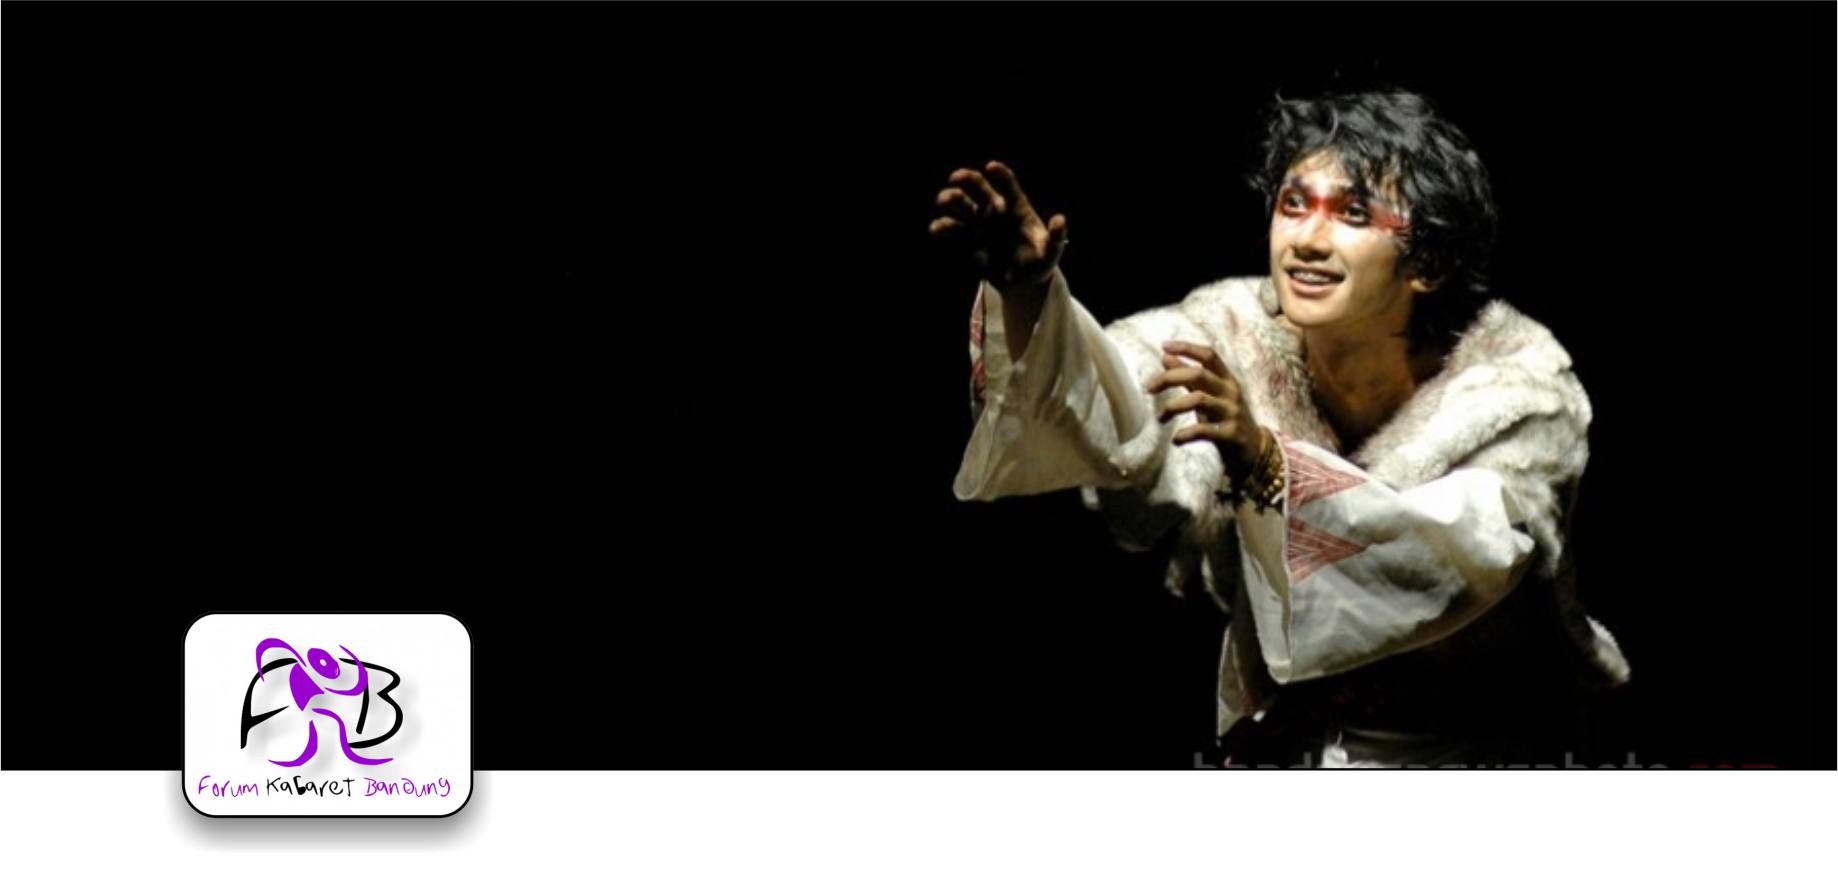
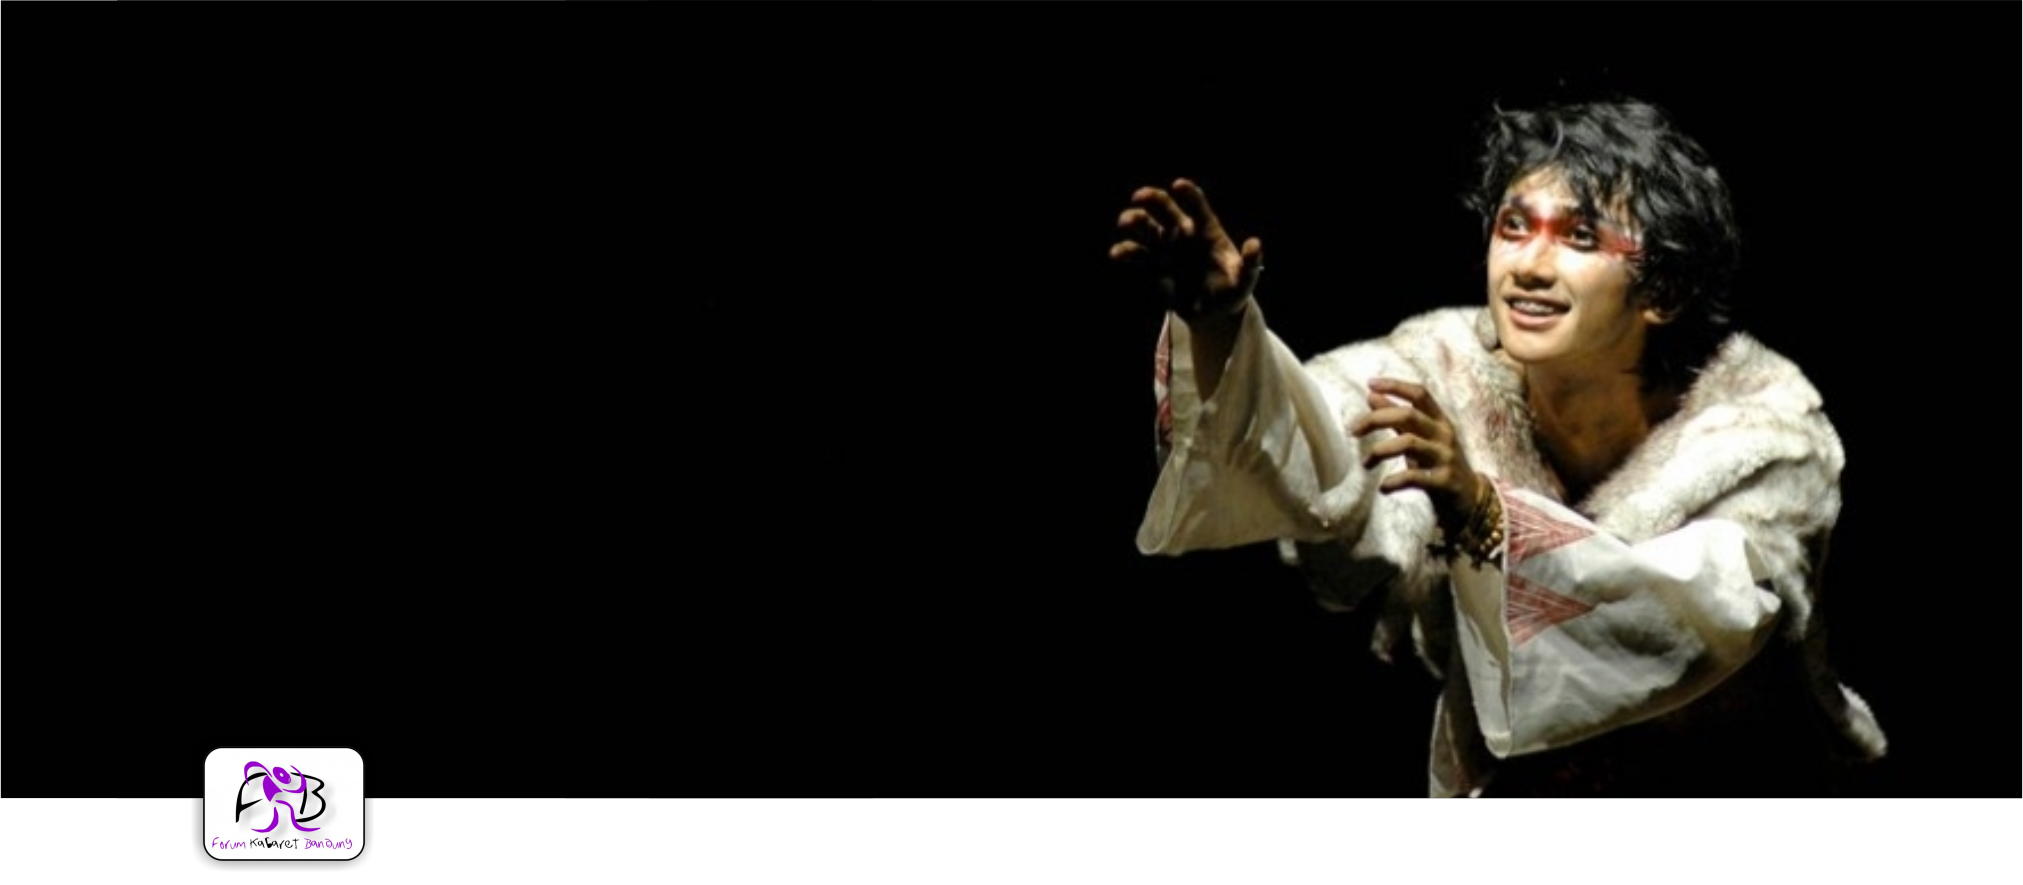
History

Changed region(s): [[0.0, 0.0922, 1.0, 0.9829]]

diff --git a/history.html b/history.html
@@ -8,7 +8,7 @@
     <link rel="stylesheet" href="css/bootstrap.css">
     <link rel="stylesheet" href="css/bootstrap-theme.css">
     <link rel="stylesheet" href="css/history.css">
-    <link href="https://fonts.googleapis.com/css?family=Contrail+One|Crimson+Text|Rozha+One" rel="stylesheet">
+    <link href="https://fonts.googleapis.com/css?family=Raleway" rel="stylesheet">
     <link href="https://fonts.googleapis.com/css?family=Contrail+One|Crimson+Text|Lora|Rozha+One" rel="stylesheet">
     <link href="https://fonts.googleapis.com/css?family=Merriweather|Poppins" rel="stylesheet">
     <link rel="stylesheet" href="https://cdnjs.cloudflare.com/ajax/libs/baguettebox.js/1.8.1/baguetteBox.min.css">
@@ -37,9 +37,37 @@
     <div class="header-fixed-placeholder"></div>
     <!-- akhir navbar -->
 
-
-
-
+    <div class="content">
+        <article>
+            <h1>HISTORY OF KABARET BANDUNG.</h1>
+    </div>
+    <br>
+    <br>
+    <header class="latar">
+        <br>
+        <br>
+        <br>
+        <h1>Forum
+            <span>Kabaret</span> Bandung</h1>
+        <br>
+        <p> Forum Kabaret Bandung itself Established in 1999, The dominance of children cabaret from Stepu (Studio Kabaret Puragabaya)</b>
+            and only lasted for 1 year, Vacuum 8 Years, At Last Kabaret Forum Bandung Back in birth Year 2008, with early association
+            Anton Yustuan (AAP) Windi, Wendi, Tarmizi, Seetonk (Badalohor) Nanang, Dani (Potret 19) Ihra, Soboer, Dedi, Triana,
+            Dani Igu, Ivan, Warid (Stepu) and Deni (Trilogi). Finally FKB Officially Stood On May 10, 2008 At Dago Tea house
+            Bandung.
+        </p>
+    </header>
+    <br>
+    <br>
+    <br>
+    <div class="about">
+        <article>
+            <h1>ABOUT KABARET BANDUNG</h1>
+            <hr>
+            <p>Welcome to Forum Kabaret Bandung Website, a creative and innovative children's gathering community. Unite to
+                go forward, work, develop and inspire Bandung City Society through modern stage performing arts.</p>
+        </article>
+    </div>
     <!-- Footer -->
     <footer class="footer-distributed">
 
@@ -115,7 +143,6 @@
 </body>
 <script src="js/jquery-3.2.1.js"></script>
 <script src="js/jquery.easing.1.3.js"></script>
-<script src="js/function.js"></script>
 <script src="js/bootstrap.js"></script>
 <script src="js/script.js"></script>
 

diff --git a/css/history.css b/css/history.css
@@ -122,7 +122,7 @@ body.fixed .header-fixed .header-limiter nav {
 /* End Navbar */
 
 body {
-    font-family:'Poppins', serif;
+    font-family:'Raleway', serif;
 }
 
 h1 {
@@ -130,25 +130,62 @@ h1 {
     font-weight: 300px;
 }
 
+.content {
+    width: 100%;
+    height: 25px;
+    padding-bottom: 0px;
+}
+
 .content article {
+    margin: 30px;
+    padding-left: 75px;
+    text-align: left;
+}
+
+/* Latar */
+/* Parallax */
+.latar {
+    background-repeat: no-repeat;
+    height: 600px;
+    width: 100%;
+    background-image: url(../img/new.png);
+    background-size: auto 600px;
+}
+
+.latar span {
+    color: rgb(157, 0, 209);
+}
+
+.latar h1 {
+    padding-left: 110px;
+    padding-top: 50px;
+    font-size: 32px;
+    text-shadow: 3px 3px 3px #000;
+}
+
+.latar p {
+    padding-left: 110px;
+    color: whitesmoke;
+    font-size: 18px;
+    text-align: left;
+    width: 700px;
+    text-shadow: 2px 2px 2px #000;
+    font-family: 'Lora', serif;
+}
+/* End Latar */
+
+
+.about article {
     padding: 100 0px;
     max-width: 768px;
     margin: 0 auto;
     text-align: center;
 }
 
-.content p {
+.about p {
     font-size: 18px;
     font-family: 'Lora', serif;
 }
-
-
-
-
-
-
-
-
 
 /* Footer */
 .footer-distributed {

diff --git a/index.html b/index.html
@@ -8,7 +8,7 @@
     <link rel="stylesheet" href="css/bootstrap.css">
     <link rel="stylesheet" href="css/bootstrap-theme.css">
     <link rel="stylesheet" href="css/parallax.css">
-    <link href="https://fonts.googleapis.com/css?family=Contrail+One|Crimson+Text|Rozha+One" rel="stylesheet">
+    <link href="https://fonts.googleapis.com/css?family=Raleway" rel="stylesheet">
     <link href="https://fonts.googleapis.com/css?family=Contrail+One|Crimson+Text|Lora|Rozha+One" rel="stylesheet">
     <link href="https://fonts.googleapis.com/css?family=Merriweather|Poppins" rel="stylesheet">
     <link rel="stylesheet" href="https://cdnjs.cloudflare.com/ajax/libs/baguettebox.js/1.8.1/baguetteBox.min.css">

diff --git a/css/parallax.css b/css/parallax.css
@@ -1,5 +1,5 @@
 body {
-    font-family:'Poppins', serif;
+    font-family:'Raleway', serif;
 }
 
 h1 {
@@ -35,6 +35,7 @@ img {
     background-position: top center;
     background-attachment: fixed;
     overflow: hidden;
+    font-family:'Poppins', serif;
 }
 
 .latar h1 {
@@ -232,11 +233,10 @@ body.fixed .header-fixed .header-limiter nav {
         border-radius: 0;
     }
 }
-
 /* End Gallery */
 
-/* Kabaret */
 
+/* Kabaret */
 .kabaret h1 {
     padding: 100 0px;
     max-width: 768px;
@@ -287,7 +287,6 @@ body.fixed .header-fixed .header-limiter nav {
 }
 
 /* Footer */
-
 .footer-distributed {
     background-color: #191818;
 	box-shadow: 0 1px 1px 0 rgba(0, 0, 0, 0.12);

diff --git a/tim.html b/tim.html
@@ -10,7 +10,7 @@
     <title>Member Us</title>
     <link rel="stylesheet" href="css/reset.css">
     <link rel="stylesheet" href="css/team.css">
-    <link href="https://fonts.googleapis.com/css?family=Contrail+One|Crimson+Text|Rozha+One" rel="stylesheet">
+    <link href="https://fonts.googleapis.com/css?family=Raleway" rel="stylesheet">
     <link href="https://fonts.googleapis.com/css?family=Contrail+One|Crimson+Text|Lora|Rozha+One" rel="stylesheet">
     <link href="https://fonts.googleapis.com/css?family=Merriweather|Poppins" rel="stylesheet">
     <link rel="icon" href="img/logofkb.png">

diff --git a/css/team.css b/css/team.css
@@ -1,7 +1,7 @@
 /* Font */
 body {
     font-size: 12px;
-    font-family:'Poppins', serif;
+    font-family:'Raleway', serif;
 }
 
 h1 {
